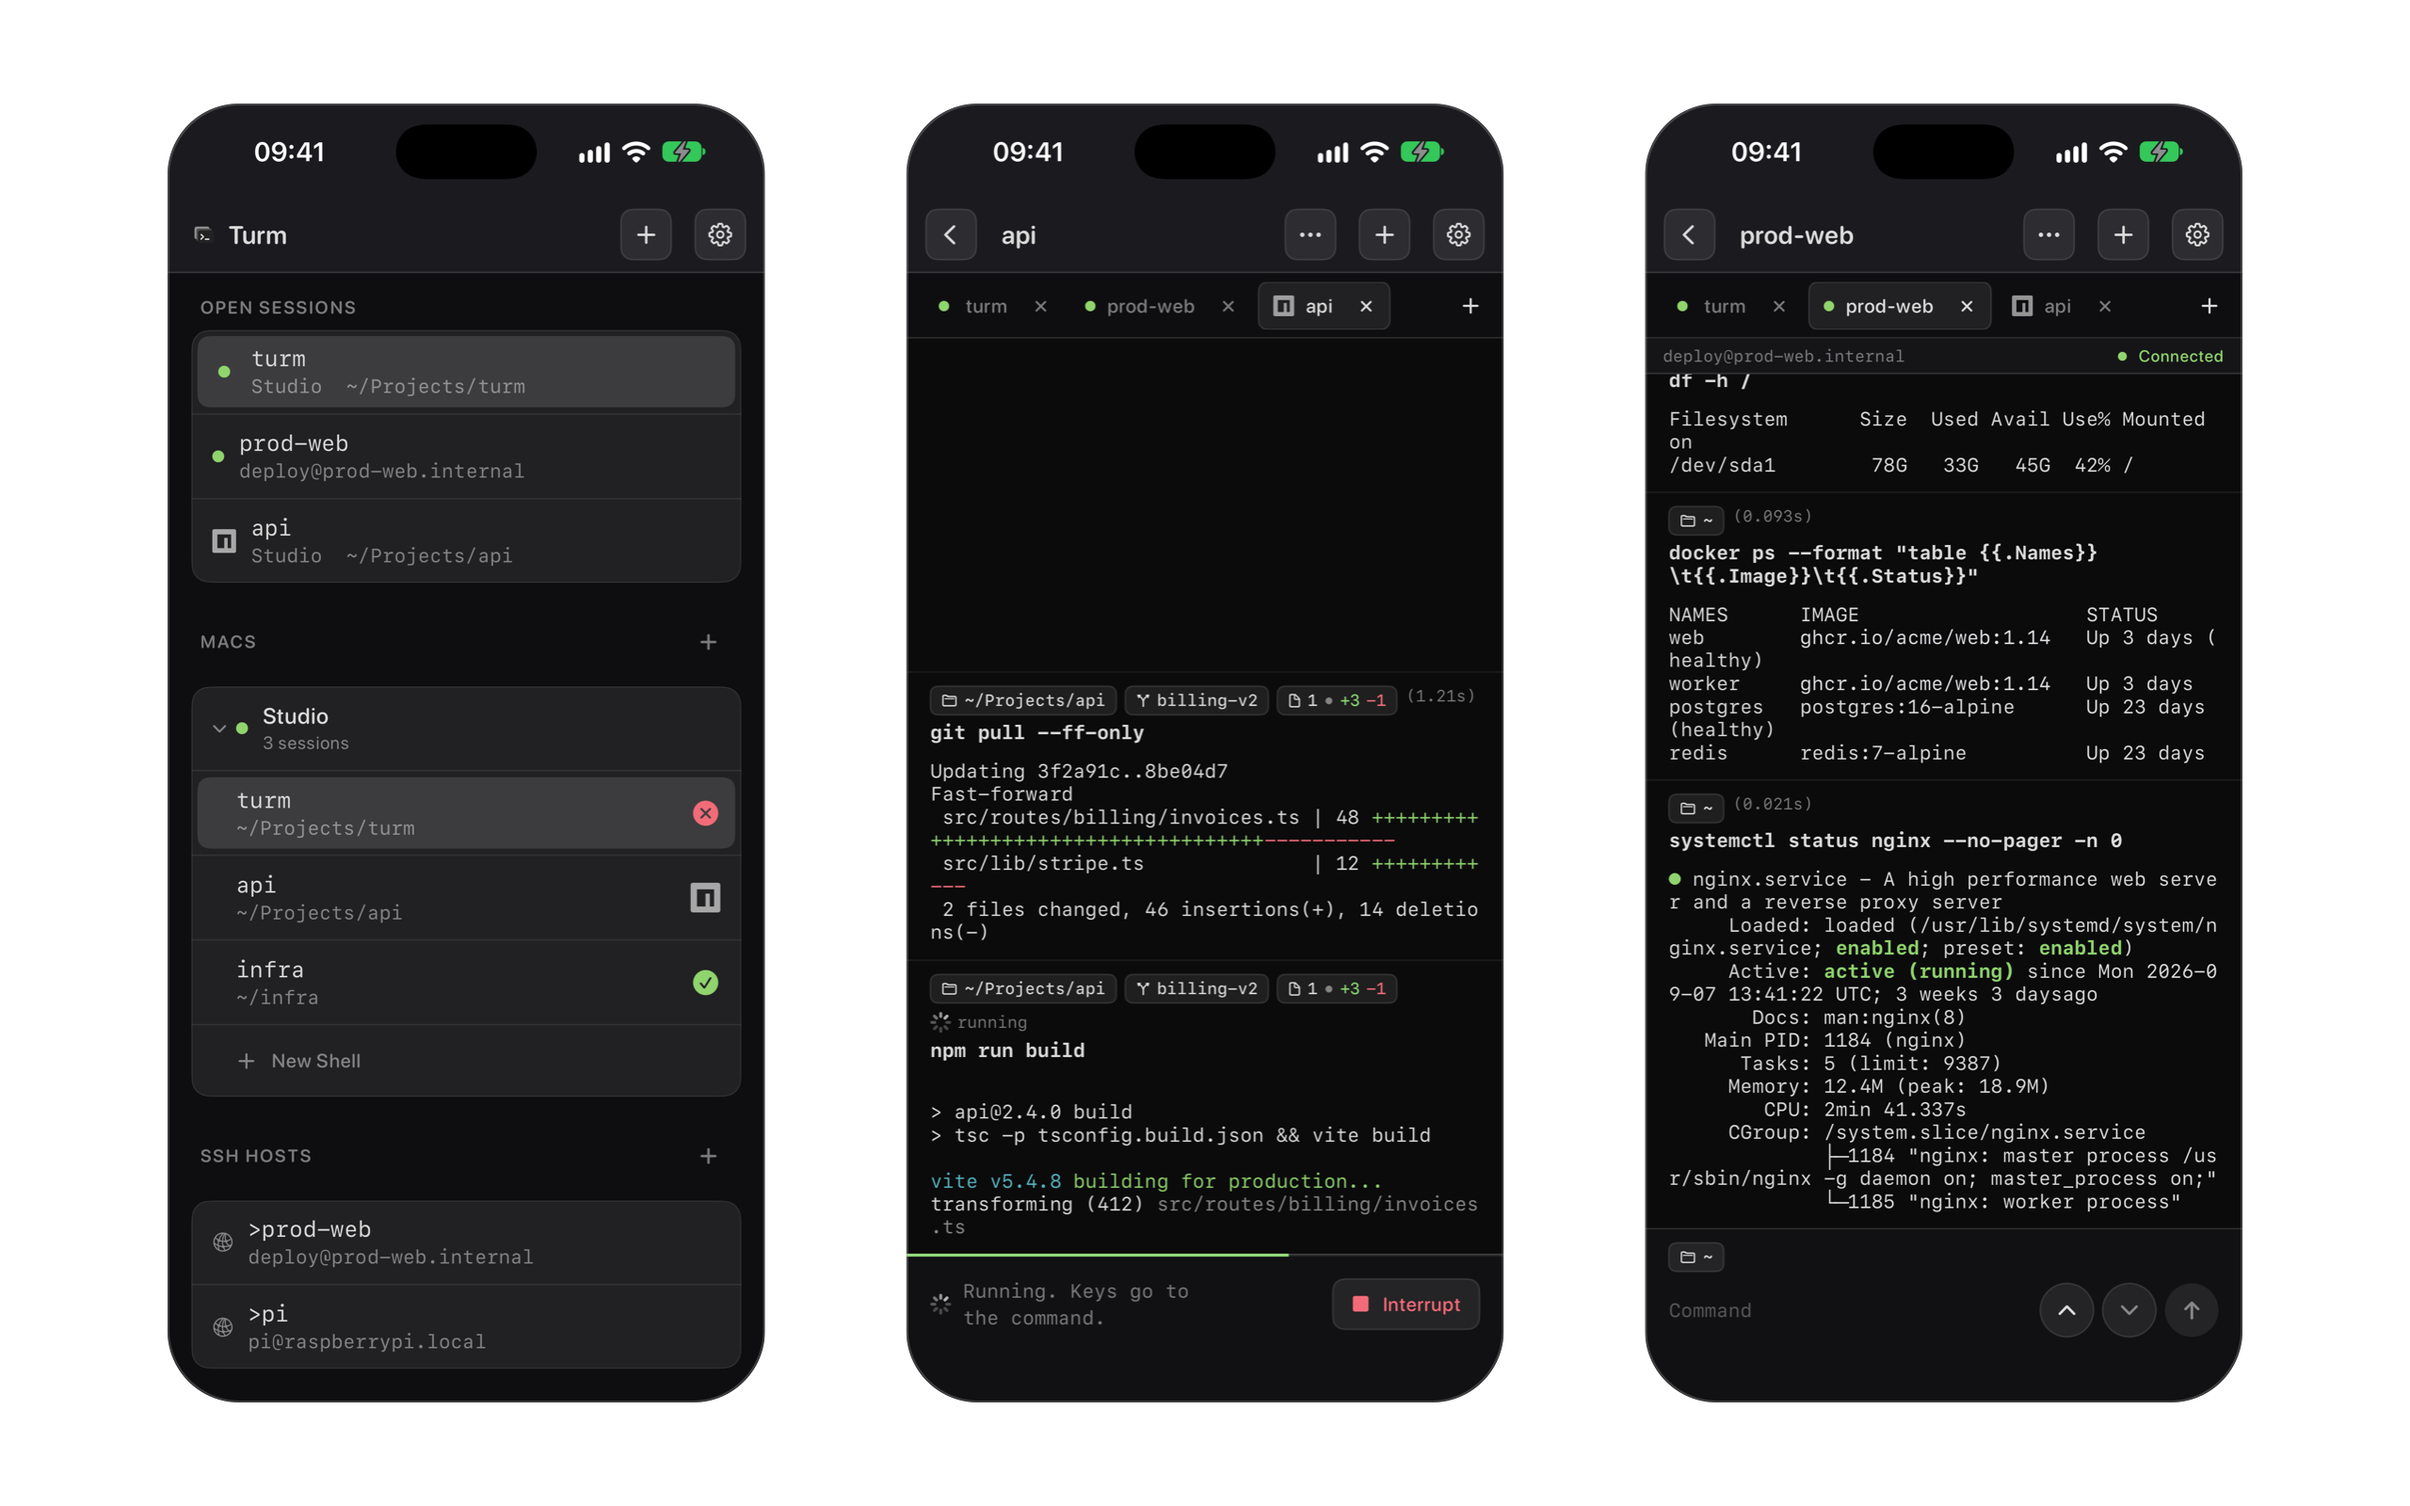
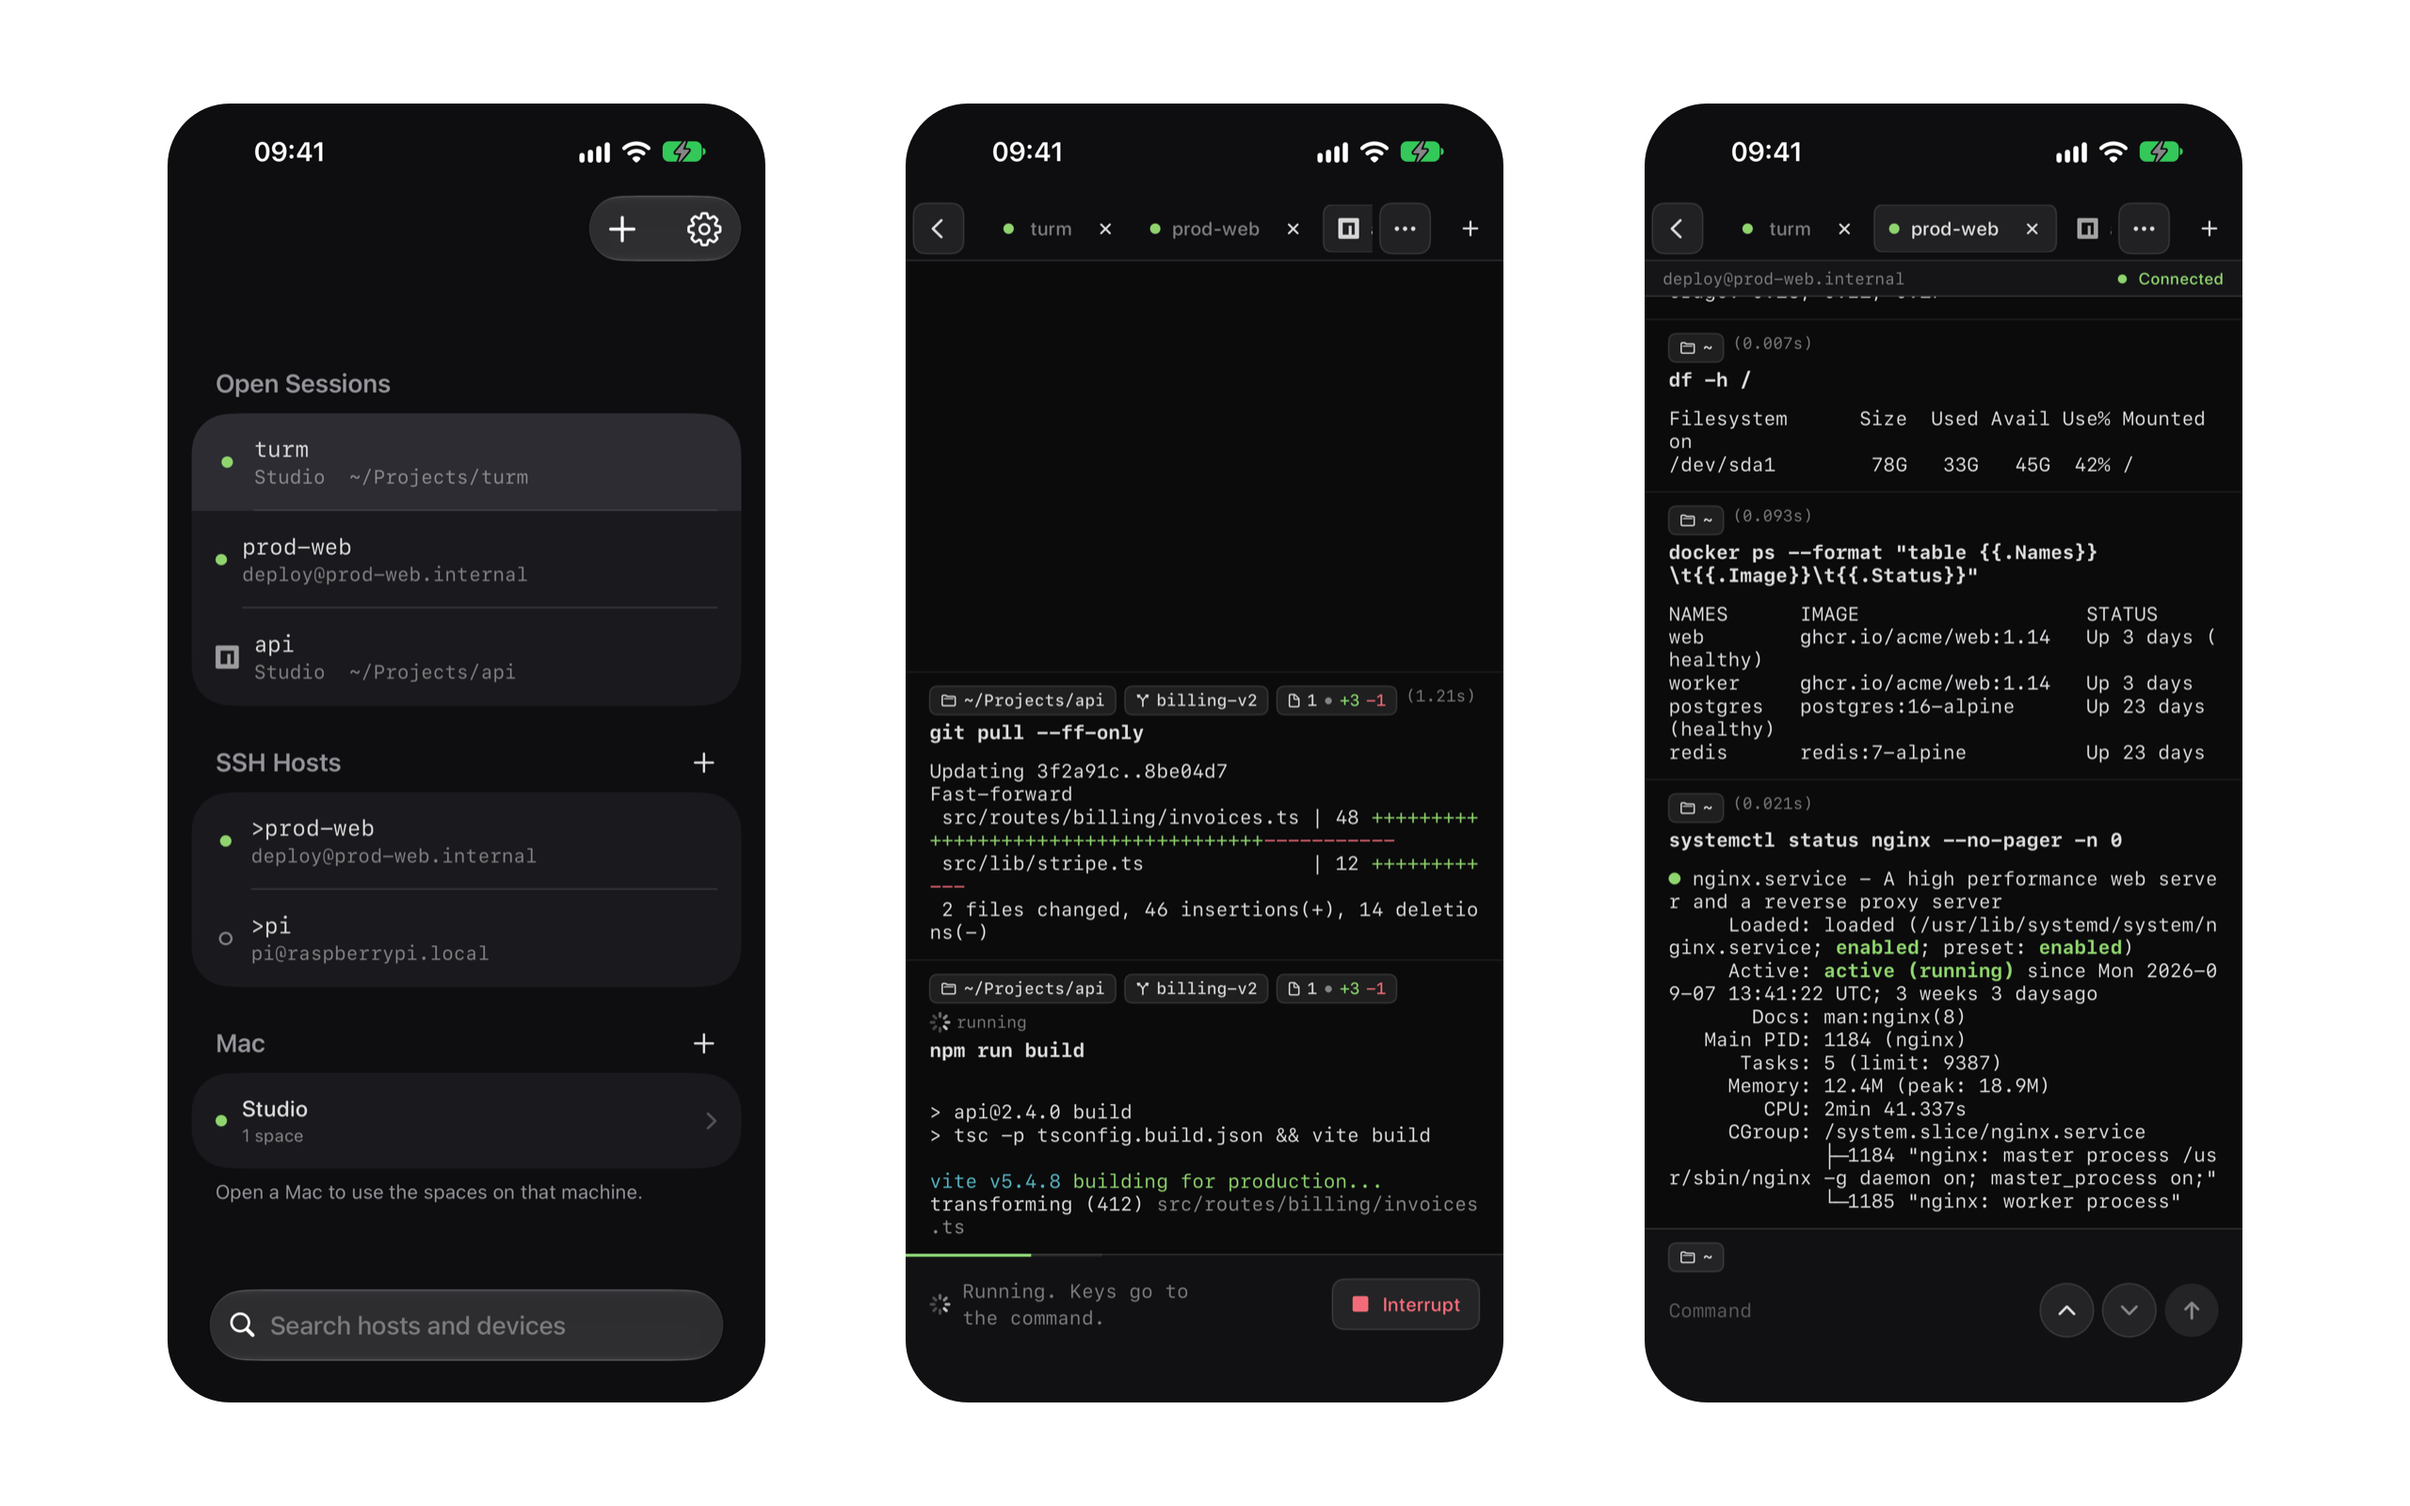
Rebuild the README screenshots from the current spaces UI, and lay the iPhone shots on the same canvas as the Mac window.

diff --git a/Scripts/frame-phones.swift b/Scripts/frame-phones.swift
@@ -1,0 +1,89 @@
+import AppKit
+
+let args = Array(CommandLine.arguments.dropFirst())
+guard args.count == 4 else {
+    fputs("usage: frame-phones.swift sidebar.png running.png ssh.png ios.png\n", stderr)
+    exit(1)
+}
+
+struct Shot {
+    let image: NSImage
+    let pixels: CGSize
+}
+
+func load(_ path: String) -> Shot {
+    guard let data = try? Data(contentsOf: URL(fileURLWithPath: path)),
+          let rep = NSBitmapImageRep(data: data) else {
+        fputs("Could not read \(path)\n", stderr)
+        exit(1)
+    }
+    let image = NSImage(size: NSSize(width: rep.pixelsWide, height: rep.pixelsHigh))
+    image.addRepresentation(rep)
+    return Shot(image: image, pixels: CGSize(width: rep.pixelsWide, height: rep.pixelsHigh))
+}
+
+let shots = args.dropLast().map(load)
+let canvas = NSSize(width: 2560, height: 1600)
+let phone = NSSize(width: 635, height: 1380)
+let radius: CGFloat = 66
+let frames = [
+    NSRect(x: 178, y: 110, width: phone.width, height: phone.height),
+    NSRect(x: 962, y: 110, width: phone.width, height: phone.height),
+    NSRect(x: 1747, y: 110, width: phone.width, height: phone.height),
+]
+
+guard let bitmap = NSBitmapImageRep(
+    bitmapDataPlanes: nil,
+    pixelsWide: Int(canvas.width),
+    pixelsHigh: Int(canvas.height),
+    bitsPerSample: 8,
+    samplesPerPixel: 4,
+    hasAlpha: true,
+    isPlanar: false,
+    colorSpaceName: .deviceRGB,
+    bytesPerRow: 0,
+    bitsPerPixel: 0
+) else {
+    fputs("Could not allocate the composite\n", stderr)
+    exit(1)
+}
+bitmap.size = canvas
+
+NSGraphicsContext.saveGraphicsState()
+guard let context = NSGraphicsContext(bitmapImageRep: bitmap) else {
+    fputs("Could not draw the composite\n", stderr)
+    exit(1)
+}
+NSGraphicsContext.current = context
+context.imageInterpolation = .high
+NSColor.clear.setFill()
+NSRect(origin: .zero, size: canvas).fill()
+
+for (shot, frame) in zip(shots, frames) {
+    let aspect = shot.pixels.width / shot.pixels.height
+    let fitted: NSRect
+    if aspect > frame.width / frame.height {
+        let width = frame.height * aspect
+        fitted = NSRect(x: frame.midX - width / 2, y: frame.minY, width: width, height: frame.height)
+    } else {
+        let height = frame.width / aspect
+        fitted = NSRect(x: frame.minX, y: frame.midY - height / 2, width: frame.width, height: height)
+    }
+    context.saveGraphicsState()
+    NSBezierPath(roundedRect: frame, xRadius: radius, yRadius: radius).addClip()
+    shot.image.draw(in: fitted, from: .zero, operation: .copy, fraction: 1)
+    context.restoreGraphicsState()
+}
+
+NSGraphicsContext.restoreGraphicsState()
+
+guard let png = bitmap.representation(using: .png, properties: [:]) else {
+    fputs("Could not encode the composite\n", stderr)
+    exit(1)
+}
+do {
+    try png.write(to: URL(fileURLWithPath: args[3]))
+} catch {
+    fputs("Could not write \(args[3]): \(error)\n", stderr)
+    exit(1)
+}

diff --git a/TurmiOS/Sidebar/AdaptiveShell.swift b/TurmiOS/Sidebar/AdaptiveShell.swift
@@ -101,9 +101,7 @@ struct AdaptiveShell: View {
             }
         }
         .onChange(of: workspace.compactColumn) { _, column in
-            guard !layout.split else { return }
-            let next: NavigationSplitViewColumn = column == .sidebar ? .sidebar : .detail
-            if preferredColumn != next { preferredColumn = next }
+            show(column)
         }
         .onChange(of: workspace.selectedID) { _, id in
             let column: WorkspaceColumn = id == nil ? .sidebar : .detail
@@ -111,7 +109,7 @@ struct AdaptiveShell: View {
             if !layout.split { preferredColumn = column == .sidebar ? .sidebar : .detail }
             focus(for: column)
         }
-        .onAppear { if layout.split { revealColumns(workspace.sidebarHidden) } }
+        .onAppear { show(workspace.compactColumn) }
     }
 
     @ViewBuilder
@@ -132,6 +130,16 @@ struct AdaptiveShell: View {
                 ContentUnavailableView("Mac Unavailable", systemImage: "desktopcomputer", description: Text("This Mac is no longer paired."))
             }
         }
+    }
+
+    /// A column chosen before this view exists still has to be the one on screen.
+    private func show(_ column: WorkspaceColumn) {
+        guard !layout.split else {
+            revealColumns(workspace.sidebarHidden)
+            return
+        }
+        let next: NavigationSplitViewColumn = column == .sidebar ? .sidebar : .detail
+        if preferredColumn != next { preferredColumn = next }
     }
 
     /// Both columns stay up until the sidebar is hidden. `.automatic` would collapse them again

diff --git a/TurmiOS/Demo/DemoContent.swift b/TurmiOS/Demo/DemoContent.swift
@@ -69,7 +69,8 @@ enum DemoContent {
 
     static func workspace() -> Workspace? {
         guard let screen, let prepared else { return nil }
-        let workspace = Workspace()
+        let workspace = Workspace(restoring: false)
+        workspace.renameSpace(workspace.activeSpaceID, to: "Projects")
         let tabs: [any TerminalTab] = [prepared.mac, prepared.ssh, prepared.running]
         for tab in tabs { workspace.open(tab) }
         switch screen {
@@ -94,6 +95,14 @@ enum DemoContent {
         } else {
             workspace.showsPairing = true
         }
+    }
+
+    // The screenshot script waits for this file in the app's Documents directory.
+    static func markReady() async {
+        try? await Task.sleep(for: .milliseconds(800))
+        guard let url = FileManager.default.urls(for: .documentDirectory, in: .userDomainMask).first?
+            .appendingPathComponent("demo-ready") else { return }
+        try? Data("ready".utf8).write(to: url)
     }
 
     private static func makeHosts(_ list: [SSHHost]) -> SSHHostStore? {

diff --git a/TurmiOS/Demo/DemoFixtures.swift b/TurmiOS/Demo/DemoFixtures.swift
@@ -16,6 +16,8 @@ enum DemoFixtures {
     static let macAddresses = ["studio.local"]
     static let home = "/Users/dev"
     static let remoteHome = "/home/deploy"
+    /// The three shells share the space the Mac screenshot is sitting in.
+    static let projectsSpace = UUID(uuidString: "4E8A1C70-6B2D-4F19-A053-9D7C2E5B8A14")!
 
     static let prodWeb = SSHHost(key: "prod-web", hostname: "prod-web.internal", user: "deploy")
     static let pi = SSHHost(key: "pi", hostname: "raspberrypi.local", user: "pi")
@@ -80,7 +82,8 @@ enum DemoFixtures {
     ) -> SessionSummary {
         SessionSummary(
             id: UUID(), title: title, location: "~/" + folder, phase: phase, activity: activity,
-            branch: branch, directory: home + "/" + folder, program: command.flatMap { RunningProgram.resolve(command: $0) }
+            branch: branch, directory: home + "/" + folder, program: command.flatMap { RunningProgram.resolve(command: $0) },
+            spaceID: projectsSpace, spaceName: "Projects", spaceSymbol: "hammer"
         )
     }
 

diff --git a/Turm/Demo/DemoLayout.swift b/Turm/Demo/DemoLayout.swift
@@ -65,7 +65,8 @@ enum DemoLayout {
     }
 
     private static func finish() async {
-        await until { window != nil }
+        await until { window != nil && SpaceLibrary.shared.records.contains { !$0.isTemporary } }
+        dressSpace()
         guard let window else { return }
         NSApp.activate()
         window.makeKeyAndOrderFront(nil)
@@ -73,6 +74,13 @@ enum DemoLayout {
         try? await Task.sleep(for: .seconds(1))
         mark("window-id", "\(window.windowNumber)")
         mark("ready", "")
+    }
+
+    // The transfer's title names the tiled shell. The space above it is the workspace those shells belong to.
+    private static func dressSpace() {
+        guard let id = SpaceLibrary.shared.records.first(where: { !$0.isTemporary })?.id else { return }
+        SpaceLibrary.shared.rename(id, to: "Projects")
+        SpaceLibrary.shared.setSymbol(id, to: "hammer")
     }
 
     private static func keepSimctlFromRefreshing(_ cache: DestinationCache) {

diff --git a/TurmiOS/Workspace.swift b/TurmiOS/Workspace.swift
@@ -50,7 +50,10 @@ final class Workspace {
         sessions.first { $0.id == selectedID }
     }
 
-    init() {
+    private let restoresSaved: Bool
+
+    init(restoring saved: Bool = true) {
+        restoresSaved = saved
         let temporary = UUID()
         let id = UUID()
         spaceList = [
@@ -58,7 +61,7 @@ final class Workspace {
             PhoneSpaceInfo(id: id, name: "Space", symbol: "terminal"),
         ]
         activeSpaceID = id
-        loadPhoneWorkspace()
+        if saved { loadPhoneWorkspace() }
     }
 
     var activeSpaceName: String {
@@ -234,6 +237,7 @@ final class Workspace {
     }
 
     private func persistSessions() {
+        guard restoresSaved else { return }
         let encoded = spaceList.map { info in
             let tabs = info.isTemporary ? [] : (info.id == activeSpaceID ? sessions : (parked[info.id]?.sessions ?? []))
             return PhoneSpace(

diff --git a/TurmiOS/ContentView.swift b/TurmiOS/ContentView.swift
@@ -45,7 +45,10 @@ struct ContentView: View {
                 SessionHub.shared.move(id, to: workspace)
             }
             #if targetEnvironment(simulator)
-            .task { await DemoContent.presentSheets(in: workspace) }
+            .task {
+                await DemoContent.presentSheets(in: workspace)
+                await DemoContent.markReady()
+            }
             #endif
     }
 }

diff --git a/CONTRIBUTING.md b/CONTRIBUTING.md
@@ -11,7 +11,7 @@ swift test --package-path Packages/TurmCore
 xcodebuild test -project Turm.xcodeproj -scheme Turm -destination 'platform=macOS' -only-testing:TurmTests
 ```
 
-`Scripts/demo.sh` rebuilds the README screenshot of the Mac app from mocked data in a Debug build.
+`Scripts/demo.sh` rebuilds the README screenshot of the Mac app from mocked data in a Debug build. `Scripts/ios-demo.sh` rebuilds the iPhone composite the same way.
 
 Code shared by the Mac and iOS apps lives in `Packages/TurmCore`. A feature that makes sense on both platforms should work on both.
 
